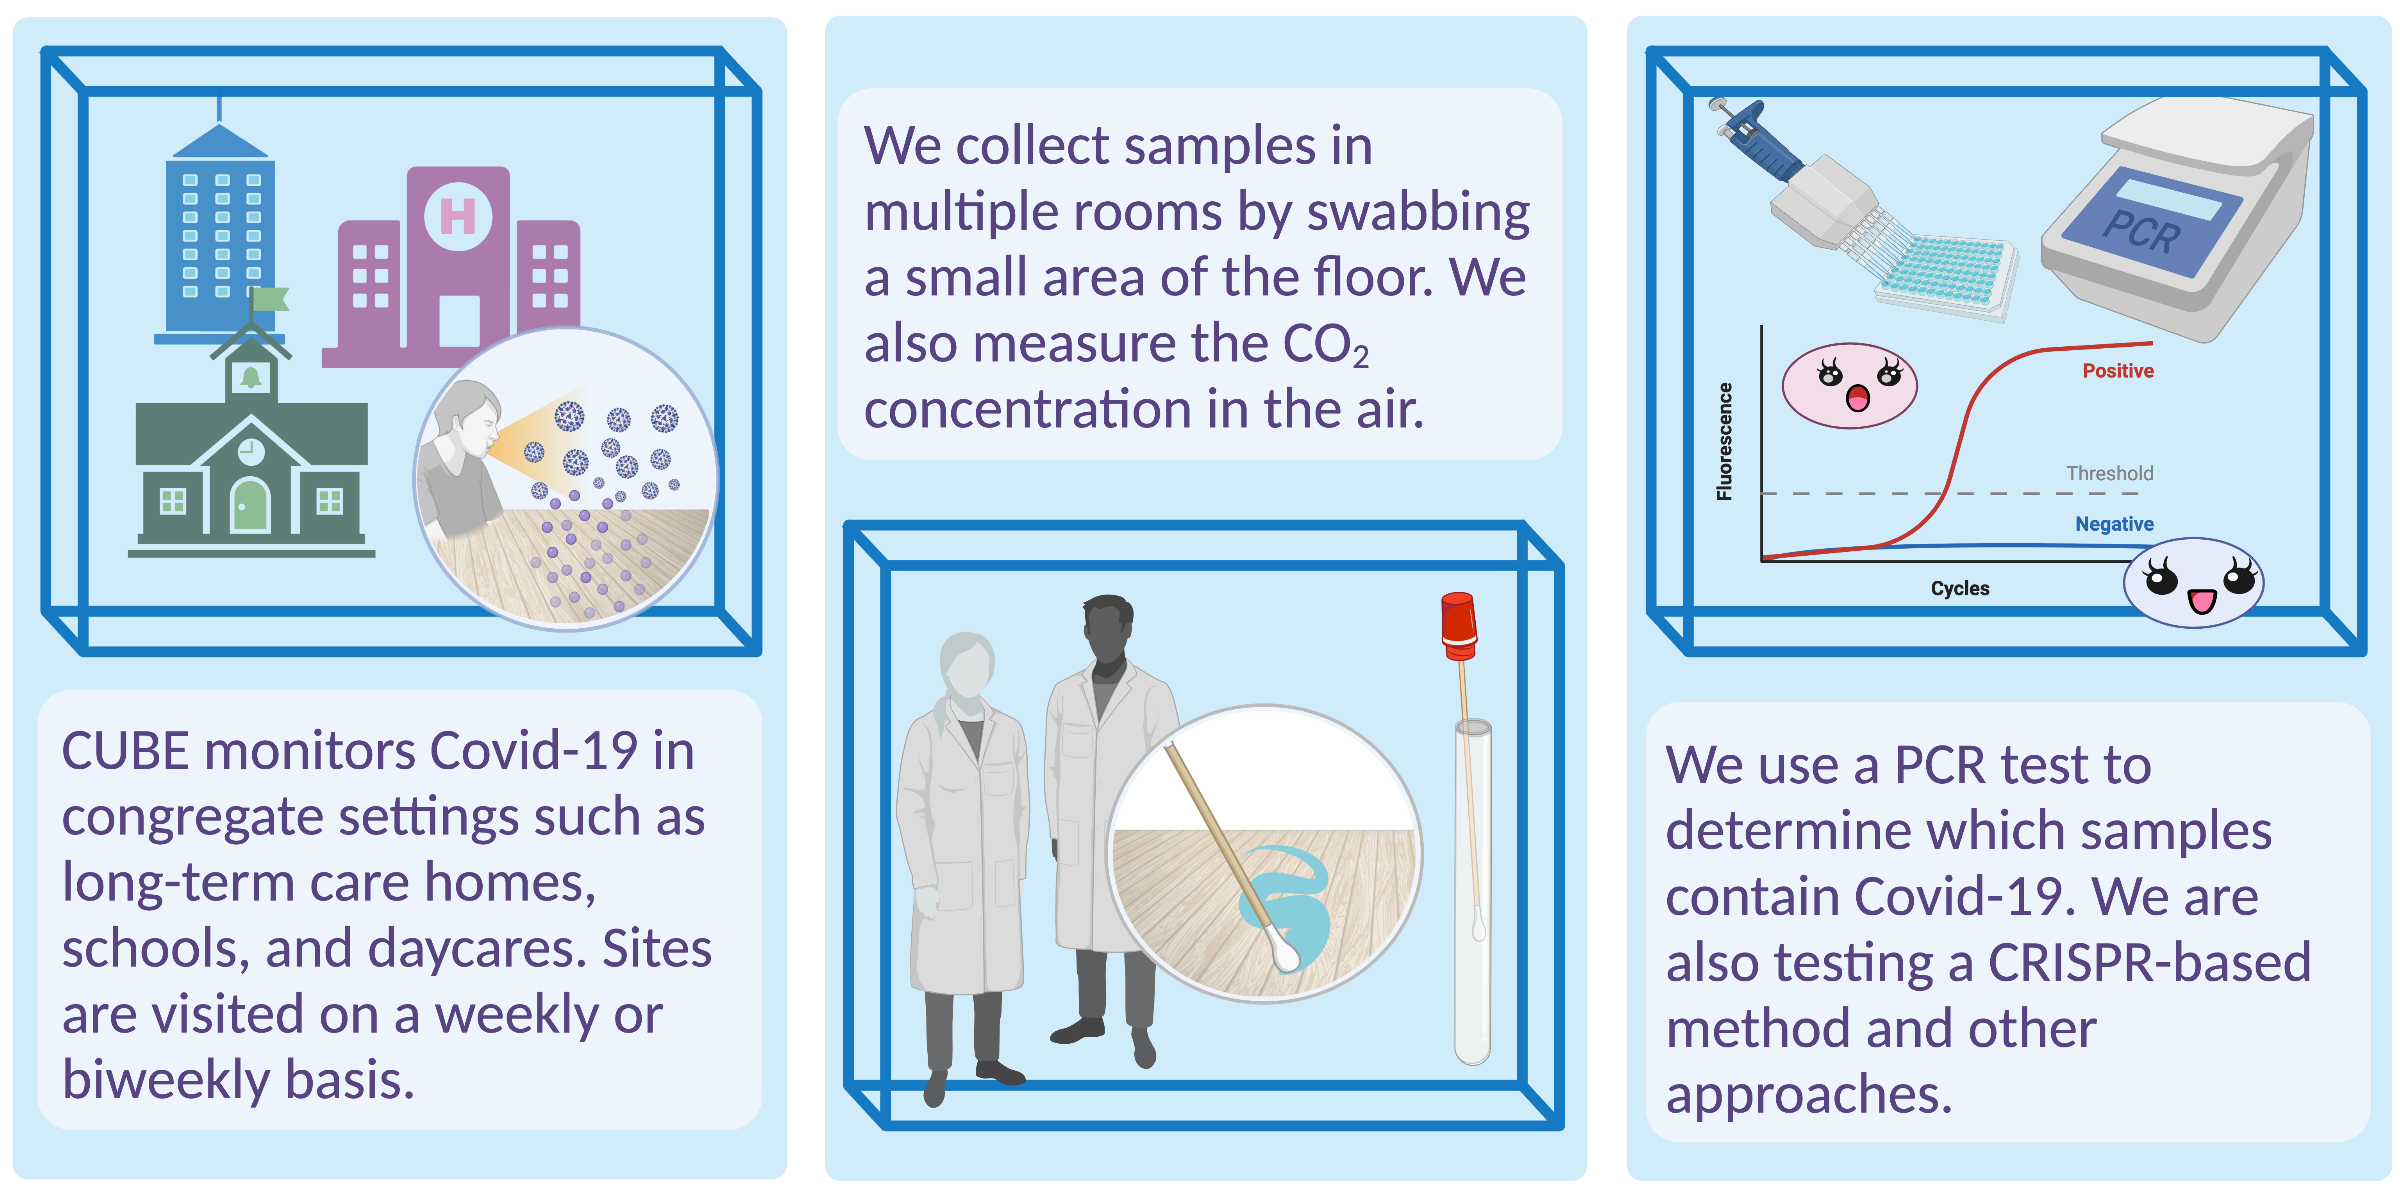
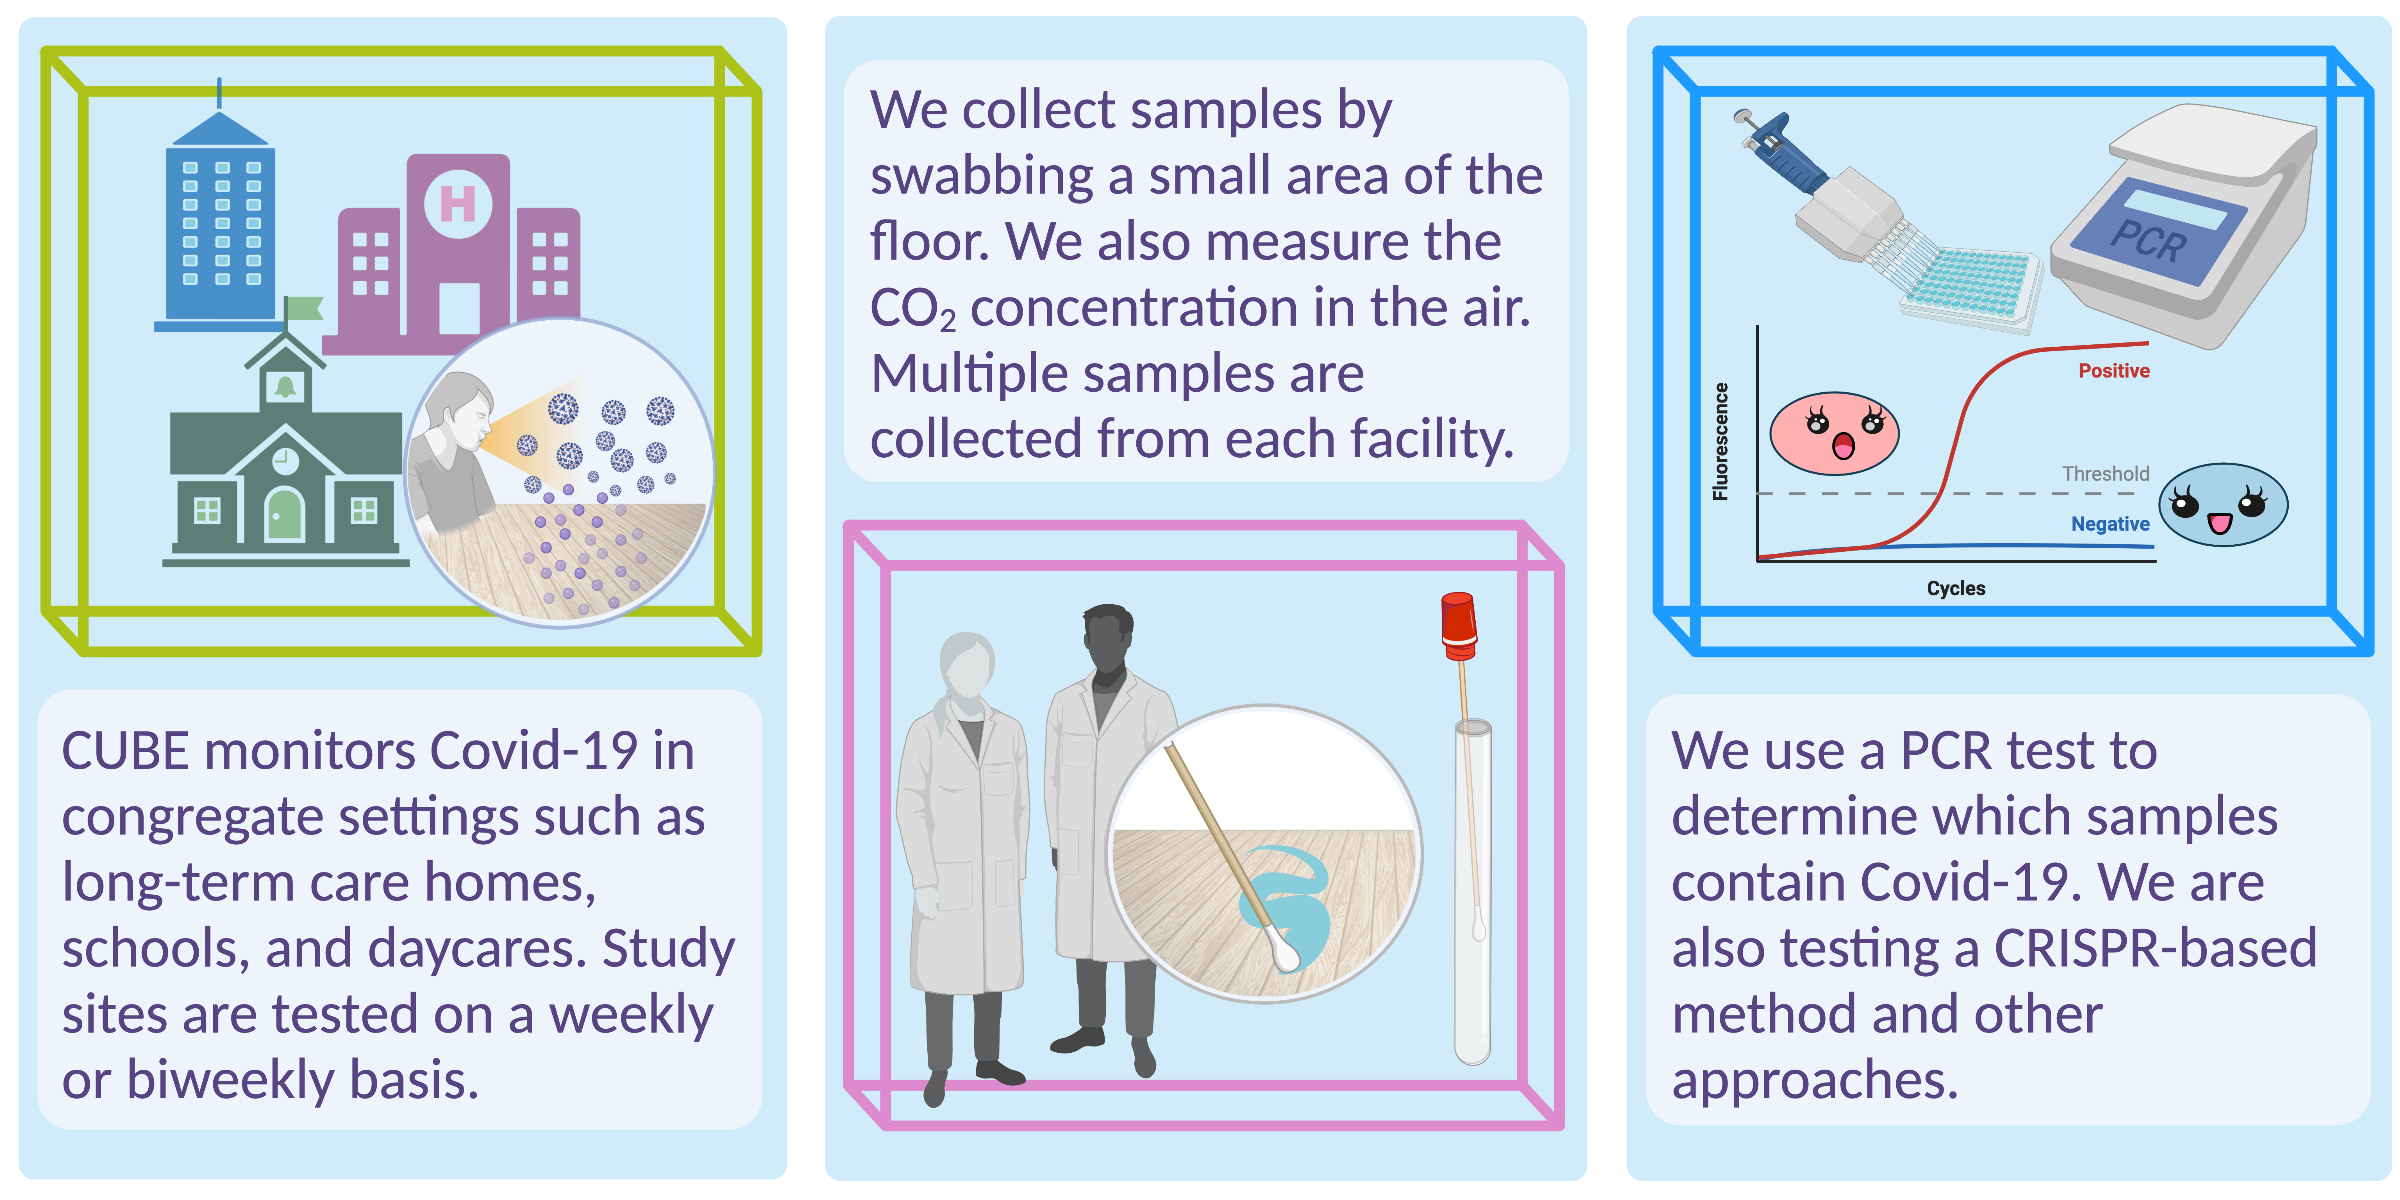
iterating on infographic and layout; adding decoration to the header. thinking about adding a footer too

diff --git a/index.html b/index.html
@@ -9,7 +9,7 @@
 <meta http-equiv="X-UA-Compatible" content="IE=EDGE" />
 
 
-<meta name="author" content="The CUBE team are: Evgueni Doukhanine, Michael Fralick, Aaron Hinz, Benazir Hodzic-Santor, Rees Kassen, Derek MacFadden, Jason Moggridge, Caroline Nott, Ashley Raudanskis, Nisha Thampi, Tamara Van Bakel, Alex Wong, and Veronica Zanichelli  " />
+<meta name="author" content="The CUBE team are: Evgueni Doukhanine, Michael Fralick, Aaron Hinz, Benazir Hodzic-Santor, Rees Kassen, Derek MacFadden, Jason Moggridge, Caroline Nott, Ashley Raudanskis, Nisha Thampi, Tamara Van Bakel, Alex Wong, and Veronica Zanichelli" />
 
 
 <title>CUBE: Covid-19 in the Urban Built Environment</title>
@@ -334,19 +334,27 @@ div.tocify {
     </div>
     <div id="navbar" class="navbar-collapse collapse">
       <ul class="nav navbar-nav">
-        
+        <li>
+  <a href="https://github.com/CUBE-Ontario">
+    <span class="fa fa-cube"></span>
+     
+    CUBE: Covid-19 in the Urban Built Environment
+  </a>
+</li>
       </ul>
       <ul class="nav navbar-nav navbar-right">
         <li>
   <a href="mailto:CUBEstudy21@gmail.com">
     <span class="fa fa-paper-plane"></span>
      
+    Email
   </a>
 </li>
 <li>
   <a href="https://github.com/CUBE-Ontario">
     <span class="fa fa-github"></span>
      
+    GitHub
   </a>
 </li>
       </ul>
@@ -359,7 +367,7 @@ div.tocify {
 
 
 <h1 class="title toc-ignore">CUBE: Covid-19 in the Urban Built Environment</h1>
-<h4 class="author">The CUBE team are: Evgueni Doukhanine, Michael Fralick, Aaron Hinz, Benazir Hodzic-Santor, Rees Kassen, Derek MacFadden, Jason Moggridge, Caroline Nott, Ashley Raudanskis, Nisha Thampi, Tamara Van Bakel, Alex Wong, and Veronica Zanichelli<br><br></h4>
+<h4 class="author">The CUBE team are: Evgueni Doukhanine, Michael Fralick, Aaron Hinz, Benazir Hodzic-Santor, Rees Kassen, Derek MacFadden, Jason Moggridge, Caroline Nott, Ashley Raudanskis, Nisha Thampi, Tamara Van Bakel, Alex Wong, and Veronica Zanichelli</h4>
 
 </div>
 
@@ -367,9 +375,9 @@ div.tocify {
 <!-- Doug Manuel and Allison McGeer -->
 <hr />
 <!-- ## About CUBE section-->
-<div class="row" style="margin-left:0.5%;margin-right:0.5%">
+<div class="row" style="margin-left:0%;margin-right:0%">
 <!-- *--infographic here--* -->
-<p><img class='info' src="figures/CUBE_info4.png" 
+<p><img class='info' src="figures/CUBE_info6.png" 
     alt="CUBE monitors Covid-19 in congregate settings. We collect samples by swabbing floors. Samples are tested for the presence of Covid-19 RNA using a PCR assay"></p>
 </div>
 <div>
@@ -377,9 +385,10 @@ div.tocify {
 <h2>
 About the CUBE study
 </h2>
-<p><br> <!-- blurb --> The Covid-19 in the Urban Built Environment (CUBE) project seeks to develop environmental sampling as a spatially-resolved method for monitoring Covid-19 in congregate settings such as long-term care homes (LTC), universities, public schools, and daycares.</p>
+<!-- blurb -->
+<p>The Covid-19 in the Urban Built Environment (CUBE) project seeks to develop environmental sampling as a spatially-resolved method for monitoring Covid-19 in congregate settings such as long-term care homes (LTC), universities, public schools, and daycares.</p>
 <p>We collect samples by swabbing floors; then, the swabs are tested for Covid-19 using an <a href="https://en.wikipedia.org/wiki/Reverse_transcription_polymerase_chain_reaction">RT-qPCR</a> assay developed by <a href="https://www.dnagenotek.com/">DNA Genotek</a> and/or a novel CRISPR-based device.</p>
-<p>Currently, we are focused on facilities in Toronto, Ottawa, and Sault Ste. Marie.</p>
+<p>Currently, we are focused on facilities located in Toronto, Ottawa, and Sault Ste. Marie.</p>
 <p><a href="https://www.medrxiv.org/content/10.1101/2021.04.09.21255159v2">Click here to read our preprint</a> from an earlier study showing the effectiveness of environmental sampling for Covid-19 monitoring.</p>
 </div>
 <hr>
@@ -387,7 +396,6 @@ About the CUBE study
 <h2>
 Frequently Asked Questions
 </h2>
-<p><em>Click to open</em> <!-- <em>Click a button to display the answer</em> --></p>
 <!-- Accordion section with FAQs -->
 <!-- Example: -->
 <!-- <button class="accordion">Question X</button> -->
@@ -488,13 +496,13 @@ Site Locations
 <p>
 These interactive maps show sites that are currently being monitored by our research team in Toronto and Ottawa.
 </p>
-<div style="width:50%;display:block;float:left;">
-<div id="htmlwidget-7591aaf87ab7bf70214a" style="width:100%;height:300px;" class="leaflet html-widget"></div>
-<script type="application/json" data-for="htmlwidget-7591aaf87ab7bf70214a">{"x":{"options":{"crs":{"crsClass":"L.CRS.EPSG3857","code":null,"proj4def":null,"projectedBounds":null,"options":{}}},"setView":[[43.74,-79.34],10,[]],"calls":[{"method":"addProviderTiles","args":["CartoDB.Positron",null,null,{"errorTileUrl":"","noWrap":false,"detectRetina":false,"minZoom":9,"maxZoom":12}]},{"method":"addAwesomeMarkers","args":[[43.71272187,45.37469051,43.70823091,43.7924413,43.68558963,45.44659834,45.35454306,43.6649258,45.35597644,45.42288],[-79.32928078,-75.7790725,-79.33467393,-79.39364653,-79.41240927,-75.61086083,-75.7583513,-79.4186497,-75.77636527,-75.683283],{"icon":"cube","markerColor":["green","cadetblue","green","cadetblue","cadetblue","cadetblue","cadetblue","cadetblue","cadetblue","purple"],"iconColor":"white","spin":false,"squareMarker":false,"iconRotate":0,"font":"monospace","prefix":"ion"},null,null,{"interactive":true,"draggable":false,"keyboard":true,"title":"","alt":"","zIndexOffset":0,"opacity":1,"riseOnHover":false,"riseOffset":250},["Daycare","LTC","Daycare","LTC","LTC","LTC","LTC","LTC","LTC","University"],null,null,null,null,{"interactive":false,"permanent":false,"direction":"auto","opacity":1,"offset":[0,0],"textsize":"10px","textOnly":false,"className":"","sticky":true},null]}],"limits":{"lat":[43.6649258,45.44659834],"lng":[-79.4186497,-75.61086083]}},"evals":[],"jsHooks":[]}</script>
+<div style="width:50%;display:block;float:left;padding:2px;">
+<div id="htmlwidget-126a5f8b6b9d7f99c419" style="width:100%;height:300px;" class="leaflet html-widget"></div>
+<script type="application/json" data-for="htmlwidget-126a5f8b6b9d7f99c419">{"x":{"options":{"crs":{"crsClass":"L.CRS.EPSG3857","code":null,"proj4def":null,"projectedBounds":null,"options":{}}},"setView":[[43.74,-79.34],10,[]],"calls":[{"method":"addProviderTiles","args":["CartoDB.Positron",null,null,{"errorTileUrl":"","noWrap":false,"detectRetina":false,"minZoom":9,"maxZoom":12}]},{"method":"addAwesomeMarkers","args":[[43.71272187,45.37469051,43.70823091,43.7924413,43.68558963,45.44659834,45.35454306,43.6649258,45.35597644,45.42288],[-79.32928078,-75.7790725,-79.33467393,-79.39364653,-79.41240927,-75.61086083,-75.7583513,-79.4186497,-75.77636527,-75.683283],{"icon":"cube","markerColor":["green","cadetblue","green","cadetblue","cadetblue","cadetblue","cadetblue","cadetblue","cadetblue","purple"],"iconColor":"white","spin":false,"squareMarker":false,"iconRotate":0,"font":"monospace","prefix":"ion"},null,null,{"interactive":true,"draggable":false,"keyboard":true,"title":"","alt":"","zIndexOffset":0,"opacity":1,"riseOnHover":false,"riseOffset":250},["Daycare","LTC","Daycare","LTC","LTC","LTC","LTC","LTC","LTC","University"],null,null,null,null,{"interactive":false,"permanent":false,"direction":"auto","opacity":1,"offset":[0,0],"textsize":"10px","textOnly":false,"className":"","sticky":true},null]}],"limits":{"lat":[43.6649258,45.44659834],"lng":[-79.4186497,-75.61086083]}},"evals":[],"jsHooks":[]}</script>
 </div>
-<div style="width:50%;display:block;float:left;">
-<div id="htmlwidget-0ee411b346eee707e960" style="width:100%;height:300px;" class="leaflet html-widget"></div>
-<script type="application/json" data-for="htmlwidget-0ee411b346eee707e960">{"x":{"options":{"crs":{"crsClass":"L.CRS.EPSG3857","code":null,"proj4def":null,"projectedBounds":null,"options":{}}},"setView":[[45.4,-75.67],11,[]],"calls":[{"method":"addProviderTiles","args":["CartoDB.Positron",null,null,{"errorTileUrl":"","noWrap":false,"detectRetina":false,"minZoom":10,"maxZoom":13}]},{"method":"addAwesomeMarkers","args":[[43.71272187,45.37469051,43.70823091,43.7924413,43.68558963,45.44659834,45.35454306,43.6649258,45.35597644,45.42288],[-79.32928078,-75.7790725,-79.33467393,-79.39364653,-79.41240927,-75.61086083,-75.7583513,-79.4186497,-75.77636527,-75.683283],{"icon":"cube","markerColor":["green","cadetblue","green","cadetblue","cadetblue","cadetblue","cadetblue","cadetblue","cadetblue","purple"],"iconColor":"white","spin":false,"squareMarker":false,"iconRotate":0,"font":"monospace","prefix":"ion"},null,null,{"interactive":true,"draggable":false,"keyboard":true,"title":"","alt":"","zIndexOffset":0,"opacity":1,"riseOnHover":false,"riseOffset":250},["Daycare","LTC","Daycare","LTC","LTC","LTC","LTC","LTC","LTC","University"],null,null,null,null,{"interactive":false,"permanent":false,"direction":"auto","opacity":1,"offset":[0,0],"textsize":"10px","textOnly":false,"className":"","sticky":true},null]}],"limits":{"lat":[43.6649258,45.44659834],"lng":[-79.4186497,-75.61086083]}},"evals":[],"jsHooks":[]}</script>
+<div style="width:50%;display:block;float:left;padding:2px;">
+<div id="htmlwidget-04e005a74e051280ccb7" style="width:100%;height:300px;" class="leaflet html-widget"></div>
+<script type="application/json" data-for="htmlwidget-04e005a74e051280ccb7">{"x":{"options":{"crs":{"crsClass":"L.CRS.EPSG3857","code":null,"proj4def":null,"projectedBounds":null,"options":{}}},"setView":[[45.4,-75.67],11,[]],"calls":[{"method":"addProviderTiles","args":["CartoDB.Positron",null,null,{"errorTileUrl":"","noWrap":false,"detectRetina":false,"minZoom":10,"maxZoom":13}]},{"method":"addAwesomeMarkers","args":[[43.71272187,45.37469051,43.70823091,43.7924413,43.68558963,45.44659834,45.35454306,43.6649258,45.35597644,45.42288],[-79.32928078,-75.7790725,-79.33467393,-79.39364653,-79.41240927,-75.61086083,-75.7583513,-79.4186497,-75.77636527,-75.683283],{"icon":"cube","markerColor":["green","cadetblue","green","cadetblue","cadetblue","cadetblue","cadetblue","cadetblue","cadetblue","purple"],"iconColor":"white","spin":false,"squareMarker":false,"iconRotate":0,"font":"monospace","prefix":"ion"},null,null,{"interactive":true,"draggable":false,"keyboard":true,"title":"","alt":"","zIndexOffset":0,"opacity":1,"riseOnHover":false,"riseOffset":250},["Daycare","LTC","Daycare","LTC","LTC","LTC","LTC","LTC","LTC","University"],null,null,null,null,{"interactive":false,"permanent":false,"direction":"auto","opacity":1,"offset":[0,0],"textsize":"10px","textOnly":false,"className":"","sticky":true},null]}],"limits":{"lat":[43.6649258,45.44659834],"lng":[-79.4186497,-75.61086083]}},"evals":[],"jsHooks":[]}</script>
 </div>
 <!-- need this to start next section below the maps, not underneath them! -->
 <br><br><br><br><br><br><br><br><br><br><br><br><br><br>
@@ -502,13 +510,13 @@ These interactive maps show sites that are currently being monitored by our rese
 <h2>
 CUBE @ Your Facility
 </h2>
-To arrange for CUBE testing in your facility, <a href="mailto:CUBEstudy21@gmail.com?subject=%5BCUBE%5D%20facility%20recruitment">please contact us by email</a>.
+To arrange for CUBE testing in your facility, <a href="mailto:CUBEstudy21@gmail.com?subject=%5BCUBE%5D%20facility%20recruitment">please contact us by email <svg viewBox="0 0 512 512" style="height:1em;position:relative;display:inline-block;top:.1em;fill:#2469e0;hover:#fff;" xmlns="http://www.w3.org/2000/svg"> <path d="M476 3.2L12.5 270.6c-18.1 10.4-15.8 35.6 2.2 43.2L121 358.4l287.3-253.2c5.5-4.9 13.3 2.6 8.6 8.3L176 407v80.5c0 23.6 28.5 32.9 42.5 15.8L282 426l124.6 52.2c14.2 6 30.4-2.9 33-18.2l72-432C515 7.8 493.3-6.8 476 3.2z"></path></svg></a>.
 <hr>
 <h2>
 Contribute to CUBE
 </h2>
 <p>
-If you are interested in contributing to the CUBE research project, <a href="mailto:CUBEstudy21@gmail.com?subject=%5BCUBE%5D%20funding">please contact us by email</a>.
+If you are interested in contributing to the CUBE research project, <a href="mailto:CUBEstudy21@gmail.com?subject=%5BCUBE%5D%20funding">please contact us by email <svg viewBox="0 0 512 512" style="height:1em;position:relative;display:inline-block;top:.1em;fill:#2469e0;hover:#fff;" xmlns="http://www.w3.org/2000/svg"> <path d="M476 3.2L12.5 270.6c-18.1 10.4-15.8 35.6 2.2 43.2L121 358.4l287.3-253.2c5.5-4.9 13.3 2.6 8.6 8.3L176 407v80.5c0 23.6 28.5 32.9 42.5 15.8L282 426l124.6 52.2c14.2 6 30.4-2.9 33-18.2l72-432C515 7.8 493.3-6.8 476 3.2z"></path></svg></a> .
 </p>
 <hr>
 <h2>
@@ -661,25 +669,11 @@ Clinical research coordinator for CUBE and other projects in the field of infect
 <p><br></p>
 </div>
 <hr />
+<!-- ###### Copyright © 2021 CUBE study team. All Rights Reserved. -->
 <!-- use this line to prevent the floating TOC from adding tons of blank space to the bottom of the webpage -->
 <div class="tocify-extend-page" data-unique="tocify-extend-page" style="height: 0;">
 
 </div>
-<!-- <h4 style="color:DodgerBlue";> How long will you be swabbing our facilities?</h4> -->
-<!-- Most facilities are swabbed on a weekly basis for a number of months. -->
-<!-- <br> -->
-<!-- <h4 class="faq"> When will we hear about the results? </h4> -->
-<!-- The results will be made publicly available when the study is complete. -->
-<!-- <br> -->
-<!-- <h4 class="faq">  Can you get COVID-19 from the floor? Do we need to clean our floors more often? </h4> -->
-<!-- The current scientific consensus is that Covid-19 is mainly transmitted through aerosols. It is highly unlikely for an individual to become infected by Covid-19 directly from floors, but floors may have some viable virus present. -->
-<!-- <br> -->
-<!-- <h4 class="faq"> Who are you working with/who is funding the study? </h4> -->
-<!-- Our research team has members affliated with The Ottawa Hospital, Children's Hospital of Eastern Ontario, Mt. Sinai Hospital, University of Ottawa, Carleton University, University of Toronto, University of Waterloo, and DNA Genotek. -->
-<!-- <br> -->
-<!-- <h4 class="faq"> Who is funding the study? </h4> -->
-<!-- The CUBE study has received funding from NSERC, The Ottawa Hospital Academic Medical Organization (TOHAMO), University of Ottawa, Carleton University, and DNA Genotek. -->
-<!-- <br> -->
 
 
 

diff --git a/style.css b/style.css
@@ -91,14 +91,14 @@ img.info {
 */
 /* image format for the infographic panel */
 img.info {
-  height: 90%;
-  width: 90%;
+  height: 100%;
+  width: 100%;
   float: center;
-  padding: 1px;
+  padding: 0px;
   margin-top: 2px;
   margin-bottom: 0px;
-  margin-left: 2px;
-  margin-right: 2px;
+  margin-left: 0px;
+  margin-right: 0px;
 }
 
 /*biography section for each member of the project staff*/
@@ -137,8 +137,8 @@ h4.faq {
   color: #444;
   cursor: pointer;
   padding: 5px 10px 5px 10px;
-  margin-top: 5px;
-  margin-bottom: 5px;
+  margin-top: 1px;
+  margin-bottom: 1px;
   text-align: left;
   border-style: solid;
   border-width: 1px;
@@ -169,7 +169,11 @@ h4.faq {
 .panel {
   padding: 5px 5px 5px 5px;
   background-color: white;
-  display: none;
+  border-style: solid; /*trying to add border on answer boxes*/
+  border-width: 1px;
+  border-color: #e5e5e5;
+  border-radius: 5px;
+  display: block;
   /* 'none' makes the answer box closed by default */
   /* 'block' makes answer box open by default */
   overflow: hidden;
@@ -188,12 +192,22 @@ p.faqans {
 }
 
 
-/* Leaflet maps div*/
 
-span.lflt {
-  display: inline; /* the default for span */
-  width: 100%;
-  padding: 5px;
-  border: 1px white;
-  background-color: white;
+
+/* NO TOC on mobile */
+@media screen and (max-width: 767px){
+
+  .col-xs-12.col-sm-4.col-md-3 {
+    display: none;
+  }
+
+  .top-text {
+    font-size: 25px;
+  }
+
+  .bottom-text {
+    font-size: 40px;
+  }
+
+
 }
